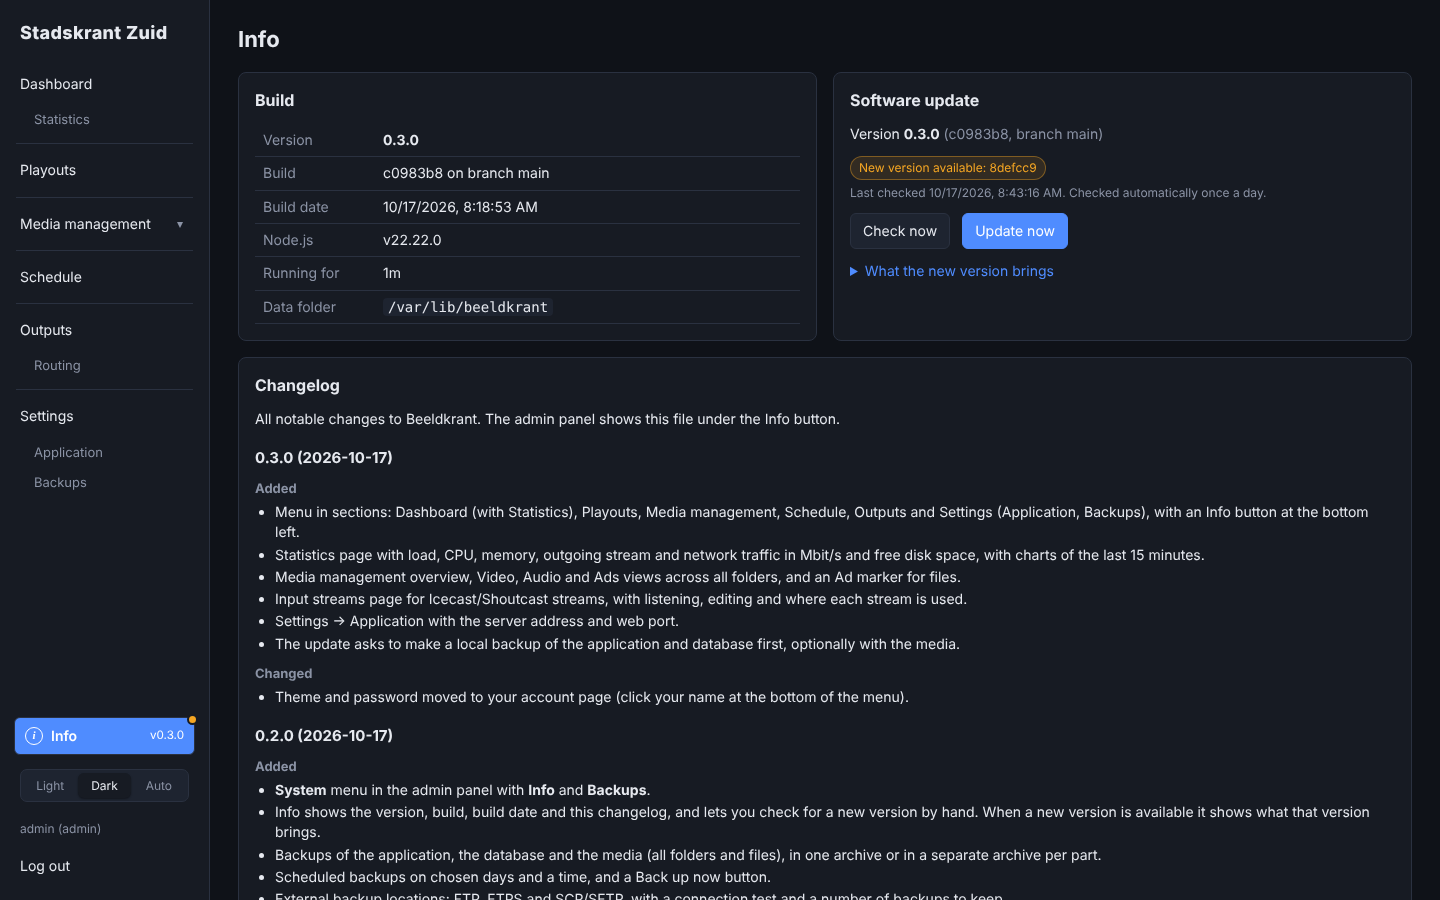
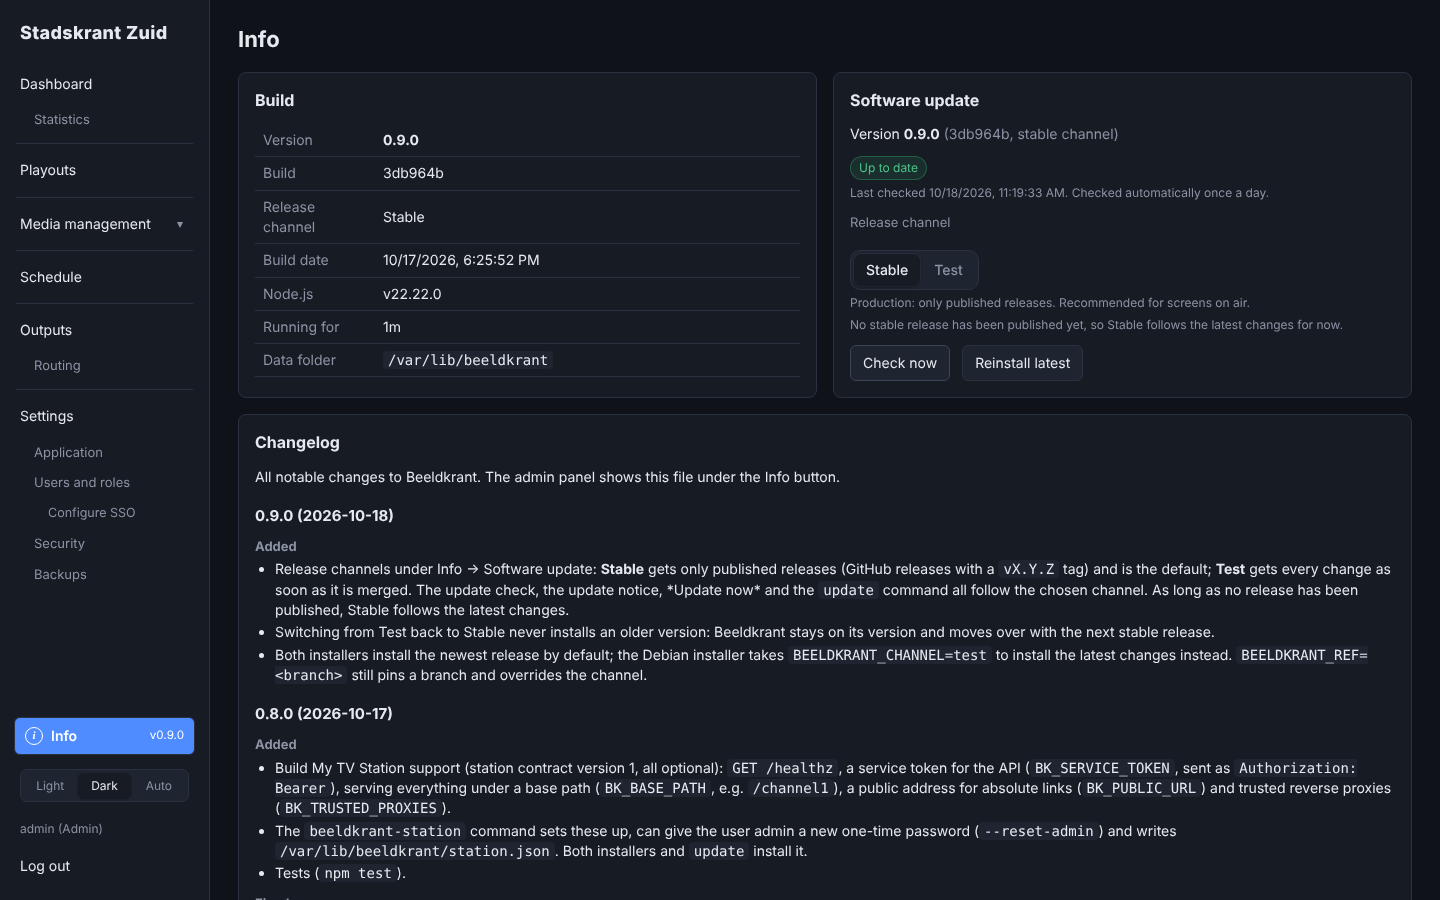
Add Stable and Test release channels
- Stable follows the newest vX.Y.Z GitHub release, Test follows main
- Channel picker under Info > Software update; stored in DATA_DIR/update-channel
- update.sh and the update check follow the channel; never downgrade to an older stable
- Installers install the newest release by default (BEELDKRANT_CHANNEL=test for main)
- README, screenshots and changelog for 0.9.0

Claude-Session: https://claude.ai/code/session_015MfXwti1tNEngGizU1WqZ7

diff --git a/server/updater.js b/server/updater.js
@@ -1,5 +1,8 @@
 'use strict';
 // Checks once a day whether a newer version is available and lets an admin start the update.
+// Two release channels: Stable follows the newest GitHub release (a vX.Y.Z tag), Test follows
+// the main branch, so every merged change. BEELDKRANT_REF (in /etc/default/beeldkrant) pins
+// another branch instead and overrides the channel.
 // The update itself runs as root through the beeldkrant-update systemd units (see deploy/):
 // this process only writes the request file that their path unit watches.
 const fs = require('fs');
@@ -8,13 +11,56 @@ const { execFile } = require('child_process');
 const store = require('./store');
 
 const APP_DIR = path.join(__dirname, '..');
-const REF = process.env.BEELDKRANT_REF || 'main';
+const PINNED_REF = process.env.BEELDKRANT_REF || null;
+const TEST_BRANCH = 'main';
+const CHANNELS = ['stable', 'test'];
+// Read by `update` too (it runs as root and cannot read the database), so it is a plain file.
+const CHANNEL_FILE = path.join(store.DATA_DIR, 'update-channel');
 const REQUEST_FILE = path.join(store.DATA_DIR, 'update-request');
 const LOG_FILE = path.join(store.DATA_DIR, 'update.log');
 const PATH_UNIT = '/etc/systemd/system/beeldkrant-update.path';
 const DAY = 24 * 60 * 60 * 1000;
 
-const state = { latest: null, checkedAt: null, error: null, incoming: null };
+const state = { latest: null, latestVersion: null, ref: null, fallback: false, checkedAt: null, error: null, incoming: null };
+
+function channel() {
+  try {
+    const c = fs.readFileSync(CHANNEL_FILE, 'utf8').trim();
+    return CHANNELS.includes(c) ? c : 'stable';
+  } catch { return 'stable'; }
+}
+
+function setChannel(c) {
+  if (!CHANNELS.includes(c)) throw Object.assign(new Error('Unknown release channel'), { status: 400 });
+  if (PINNED_REF) throw Object.assign(new Error(`This installation is pinned to branch ${PINNED_REF} (BEELDKRANT_REF in /etc/default/beeldkrant). Remove that line to use a release channel.`), { status: 409 });
+  fs.writeFileSync(CHANNEL_FILE, `${c}\n`);
+  return check();
+}
+
+// "0.10.2" > "0.9.7"; anything that is not x.y.z counts as 0.0.0.
+function parseVersion(v) {
+  const m = /^v?(\d+)\.(\d+)\.(\d+)$/.exec(String(v || '').trim());
+  return m ? m.slice(1).map(Number) : [0, 0, 0];
+}
+function newer(a, b) {
+  const x = parseVersion(a); const y = parseVersion(b);
+  for (let i = 0; i < 3; i++) if (x[i] !== y[i]) return x[i] > y[i];
+  return false;
+}
+
+// The newest release tag and its commit, from `git ls-remote --tags` output.
+function latestRelease(out) {
+  const tags = {};
+  for (const line of out.split('\n')) {
+    const [sha, ref] = line.trim().split(/\s+/);
+    const m = /^refs\/tags\/(v\d+\.\d+\.\d+)(\^\{\})?$/.exec(ref || '');
+    if (!m) continue;
+    // An annotated tag has its own object; the ^{} line is the commit it points at.
+    if (m[2] || !tags[m[1]]) tags[m[1]] = sha;
+  }
+  const names = Object.keys(tags).sort((a, b) => (newer(a, b) ? -1 : newer(b, a) ? 1 : 0));
+  return names.length ? { tag: names[0], commit: tags[names[0]] } : null;
+}
 
 function run(cmd, args, timeout = 30000) {
   return new Promise((resolve, reject) => {
@@ -32,17 +78,38 @@ async function current() {
   try { return await git('rev-parse', 'HEAD'); } catch { return null; }
 }
 
+// What to update to: { ref, commit, version? }. Stable without any release yet follows main.
+async function target() {
+  if (PINNED_REF) {
+    const out = await git('ls-remote', 'origin', `refs/heads/${PINNED_REF}`);
+    return { ref: PINNED_REF, commit: out.split(/\s+/)[0] || null };
+  }
+  if (channel() === 'stable') {
+    const release = latestRelease(await git('ls-remote', '--tags', 'origin', 'refs/tags/v*'));
+    if (release) return { ref: `refs/tags/${release.tag}`, commit: release.commit, version: release.tag.slice(1) };
+  }
+  const out = await git('ls-remote', 'origin', `refs/heads/${TEST_BRANCH}`);
+  return { ref: TEST_BRANCH, commit: out.split(/\s+/)[0] || null, fallback: channel() === 'stable' };
+}
+
 async function check() {
   try {
-    const out = await git('ls-remote', 'origin', `refs/heads/${REF}`);
-    state.latest = out.split(/\s+/)[0] || null;
-    state.error = state.latest ? null : `Branch ${REF} not found`;
-    state.incoming = state.latest && state.latest !== (await current()) ? await incomingChangelog() : null;
+    const t = await target();
+    Object.assign(state, { latest: t.commit, latestVersion: t.version || null, ref: t.ref, fallback: !!t.fallback });
+    state.error = t.commit ? null : `Branch ${t.ref} not found`;
+    state.incoming = isAvailable(await current()) ? await incomingChangelog(t.ref) : null;
   } catch (err) {
     state.error = 'Could not reach the repository';
   }
   state.checkedAt = new Date().toISOString();
   return status();
+}
+
+// A release only counts when it is newer than what runs now: switching from Test to Stable
+// never installs an older version; you move over with the next stable release.
+function isAvailable(commit) {
+  if (!commit || !state.latest || commit === state.latest) return false;
+  return state.latestVersion ? newer(state.latestVersion, version()) : true;
 }
 
 async function commitDate() {
@@ -55,9 +122,9 @@ function changelog() {
 
 // The changelog of the newer version, so the panel can show what an update brings.
 // Fetching only touches FETCH_HEAD; `update` fetches the same way.
-async function incomingChangelog() {
+async function incomingChangelog(ref) {
   try {
-    await run('git', ['-c', `safe.directory=${APP_DIR}`, '-C', APP_DIR, 'fetch', '--quiet', '--depth', '1', 'origin', REF], 120000);
+    await run('git', ['-c', `safe.directory=${APP_DIR}`, '-C', APP_DIR, 'fetch', '--quiet', '--depth', '1', 'origin', ref], 120000);
     return await git('show', 'FETCH_HEAD:CHANGELOG.md');
   } catch { return null; }
 }
@@ -69,9 +136,16 @@ async function status() {
   return {
     version: version(),
     commit,
-    branch: REF,
+    channel: channel(),
+    pinned: PINNED_REF,
+    branch: PINNED_REF || (state.ref && !state.ref.startsWith('refs/tags/') ? state.ref : null),
     latest: state.latest,
-    available: !!(commit && state.latest && commit !== state.latest),
+    latestVersion: state.latestVersion,
+    // Stable has no release yet, so it follows main for now.
+    stableFallback: state.fallback,
+    // Running a test version that is newer than the latest stable release.
+    aheadOfStable: !!(state.latestVersion && newer(version(), state.latestVersion)),
+    available: isAvailable(commit),
     checkedAt: state.checkedAt,
     error: state.error,
     incoming: state.incoming,
@@ -93,4 +167,4 @@ function start() {
   setInterval(check, DAY);
 }
 
-module.exports = { check, status, requestUpdate, start, commitDate, changelog };
+module.exports = { check, status, requestUpdate, start, commitDate, changelog, channel, setChannel, latestRelease, newer };

diff --git a/public/admin/app.js b/public/admin/app.js
@@ -262,7 +262,8 @@
       const u = await GET('/api/system/update');
       if (!u.available) return;
       main.prepend(h('div', { class: 'update-banner' },
-        h('span', null, h('b', null, 'A new version of Beeldkrant is available.'), ` You run ${u.commit.slice(0, 7)}, the latest is ${u.latest.slice(0, 7)}.`),
+        h('span', null, h('b', null, u.latestVersion ? `Beeldkrant ${u.latestVersion} is available.` : 'A new version of Beeldkrant is available.'),
+          u.latestVersion ? ` You run ${u.version}.` : ` You run ${u.commit.slice(0, 7)}, the latest is ${u.latest.slice(0, 7)}.`),
         u.canUpdate ? h('button', { class: 'primary small', onclick: () => runUpdate(u) }, 'Update now') : h('span', { class: 'muted' }, 'Run update in the container shell.')));
     } catch { /* not important enough to show an error */ }
   }
@@ -318,15 +319,38 @@
     }
   }
 
+  const CHANNEL_INFO = {
+    stable: ['Stable', 'Production: only published releases. Recommended for screens on air.'],
+    test: ['Test', 'Every change as soon as it is merged, before it becomes a release. For trying out new features.'],
+  };
+  const versionLabel = (u) => u.latestVersion ? `version ${u.latestVersion}` : (u.latest || '').slice(0, 7);
+
   async function updateCard() {
     const box = h('div', { class: 'card stack' });
+    const setChannel = async (c, u) => {
+      if (c === u.channel) return;
+      try {
+        const next = await PUT('/api/system/update/channel', { channel: c });
+        toast(`Release channel: ${CHANNEL_INFO[c][0]}`, 'ok');
+        draw(next);
+      } catch (err) { fail(err); }
+    };
+    const channelPicker = (u) => h('div', { class: 'stack release-channel' },
+      h('div', { class: 'label' }, 'Release channel'),
+      u.pinned
+        ? h('div', { class: 'hint' }, `Pinned to branch ${u.pinned} (BEELDKRANT_REF in /etc/default/beeldkrant). Remove that line to choose a release channel.`)
+        : [h('div', { class: 'seg' }, ...Object.entries(CHANNEL_INFO).map(([c, [label]]) => h('button', { class: u.channel === c ? 'active' : '', onclick: () => setChannel(c, u) }, label))),
+          h('div', { class: 'hint' }, CHANNEL_INFO[u.channel][1]),
+          u.channel === 'stable' && u.stableFallback ? h('div', { class: 'hint' }, 'No stable release has been published yet, so Stable follows the latest changes for now.') : null,
+          u.channel === 'stable' && u.aheadOfStable ? h('div', { class: 'hint' }, `You run a test version (${u.version}) that is newer than the latest stable release (${u.latestVersion}). Beeldkrant stays on this version and moves to Stable with the next stable release.`) : null]);
     const draw = (u) => put(box,
       h('h2', null, 'Software update'),
-      h('div', null, 'Version ', h('b', null, u.version || '?'), u.commit ? h('span', { class: 'muted' }, ` (${u.commit.slice(0, 7)}, branch ${u.branch})`) : null),
+      h('div', null, 'Version ', h('b', null, u.version || '?'), u.commit ? h('span', { class: 'muted' }, ` (${u.commit.slice(0, 7)}, ${u.pinned ? `branch ${u.pinned}` : `${CHANNEL_INFO[u.channel][0].toLowerCase()} channel`})`) : null),
       u.error ? h('div', { class: 'badge err' }, u.error)
-        : u.available ? h('div', { class: 'badge warn' }, `New version available: ${u.latest.slice(0, 7)}`)
+        : u.available ? h('div', { class: 'badge warn' }, `New version available: ${versionLabel(u)}`)
           : u.checkedAt ? h('div', { class: 'badge ok' }, 'Up to date') : null,
       h('div', { class: 'hint' }, u.checkedAt ? `Last checked ${new Date(u.checkedAt).toLocaleString()}. Checked automatically once a day.` : 'Checked automatically once a day.'),
+      channelPicker(u),
       h('div', { class: 'row' },
         h('button', { onclick: async () => { try { draw(await POST('/api/system/update/check')); } catch (err) { fail(err); } } }, 'Check now'),
         u.canUpdate ? h('button', { class: u.available ? 'primary' : '', onclick: () => runUpdate(u) }, u.available ? 'Update now' : 'Reinstall latest') : null),
@@ -2672,7 +2696,8 @@
         h('div', { class: 'card stack' }, h('h2', null, 'Build'),
           h('table', { class: 'kv' },
             row('Version', h('b', null, info.version || '?')),
-            row('Build', info.commit ? `${info.commit.slice(0, 7)} on branch ${info.branch}` : 'Not a git checkout'),
+            row('Build', info.commit ? `${info.commit.slice(0, 7)}${info.pinned ? ` on branch ${info.pinned}` : ''}` : 'Not a git checkout'),
+            row('Release channel', info.pinned ? `Pinned to branch ${info.pinned}` : CHANNEL_INFO[info.channel][0]),
             row('Build date', info.builtAt ? new Date(info.builtAt).toLocaleString() : '—'),
             row('Node.js', info.node),
             row('Running for', fmtDuration(info.uptime)),

diff --git a/server/index.js b/server/index.js
@@ -858,6 +858,8 @@ app.post('/api/stream/restart', wrap(async (req, res) => { await stream.restart(
 // Software updates (admins only)
 app.get('/api/system/update', wrap(async (req, res) => res.json({ ...(await updater.status()), prepare })));
 app.post('/api/system/update/check', auth.requireRole('admin'), wrap(async (req, res) => res.json(await updater.check())));
+// Release channel: stable (GitHub releases) or test (every change on main).
+app.put('/api/system/update/channel', auth.requireRole('admin'), wrap(async (req, res) => res.json({ ...(await updater.setChannel((req.body || {}).channel)), prepare })));
 // An update can first make a local backup of the application and database (and optionally the
 // media); `prepare` reports on that step until the update itself is requested.
 let prepare = null;

diff --git a/README.md b/README.md
@@ -38,18 +38,30 @@ Open the shell of the container and run:
 update
 ```
 
-It fetches the latest version, installs it and restarts Beeldkrant, or tells you it is already up to date.
+It fetches the latest version of your release channel, installs it and restarts Beeldkrant, or tells you it is already up to date.
 
-The admin panel checks for a new version once a day. Admins then see a notice with an **Update now** button, which runs the same update; The **Info** button at the bottom left of the menu shows the version, build and changelog (and what a new version brings), with *Check now* and the update button. Before updating, the panel offers to make a local backup of the application and database, optionally with the media; the update only starts when that backup succeeded. The panel starts the update through the `beeldkrant-update.path` and `beeldkrant-update.service` systemd units, so the web server itself never needs root. Your playouts, media and settings in `/var/lib/beeldkrant` are kept. `update --force` reinstalls the current version. To follow another branch, put `BEELDKRANT_REF=<branch>` in `/etc/default/beeldkrant`.
+#### Release channels
+
+Under *Info → Software update* an admin picks the release channel:
+
+- **Stable** (default, production): only published releases. A release is a [GitHub release](https://github.com/rhisijmuiden/TV-Channel-Generator/releases) with a tag like `v0.9.0`; publish one to put the current `main` on Stable. As long as no release exists, Stable follows the latest changes.
+- **Test**: every change as soon as it is merged into `main`, before it becomes a release. Use it on a test machine to try new features.
+
+The update check, the notice, *Update now* and the `update` command all follow the chosen channel. Going from Test back to Stable never installs an older version: Beeldkrant stays where it is and moves to Stable with the next release that is newer. The choice is kept in `/var/lib/beeldkrant/update-channel`.
+
+<img src="docs/screenshots/release-channel.png" alt="Software update card with the release channel set to Test" width="49%">
+
+
+The admin panel checks for a new version once a day. Admins then see a notice with an **Update now** button, which runs the same update; The **Info** button at the bottom left of the menu shows the version, build and changelog (and what a new version brings), with *Check now* and the update button. Before updating, the panel offers to make a local backup of the application and database, optionally with the media; the update only starts when that backup succeeded. The panel starts the update through the `beeldkrant-update.path` and `beeldkrant-update.service` systemd units, so the web server itself never needs root. Your playouts, media and settings in `/var/lib/beeldkrant` are kept. `update --force` reinstalls the current version. To follow another branch instead of a channel, put `BEELDKRANT_REF=<branch>` in `/etc/default/beeldkrant`.
 
 Before an update the panel asks whether to make a local backup first:
 
 <p>
-  <img src="docs/screenshots/info.png" alt="Info page with the version, build and changelog" width="49%">
+  <img src="docs/screenshots/info.png" alt="Info page with the version, build, release channel and changelog" width="49%">
   <img src="docs/screenshots/update-dialog.png" alt="Update dialog with the backup options" width="49%">
 </p>
 
-Useful overrides: `mode=default` skips the wizard, `var_gpu=no` turns GPU passthrough off, `BEELDKRANT_REF=<branch>` installs another branch.
+Useful overrides: `mode=default` skips the wizard, `var_gpu=no` turns GPU passthrough off, `BEELDKRANT_REF=<branch>` installs another branch. The container starts on the newest release (Stable); switch to Test in the panel.
 
 ## How it works
 
@@ -352,7 +364,7 @@ bash -c "$(curl -fsSL https://raw.githubusercontent.com/rhisijmuiden/TV-Channel-
 
 Without curl, use `wget -qO-` instead of `curl -fsSL`. The installer asks nothing: it installs the packages (Chromium, ffmpeg, Xvfb, PulseAudio, fonts and Debian's Node.js), Beeldkrant in `/opt/beeldkrant` with its data in `/var/lib/beeldkrant`, the systemd service and the `update` command, and prints the admin address and the one-time password at the end. Running it again on an installed machine runs `update`.
 
-Settings: `PORT=<port>` changes the panel port, `BEELDKRANT_REF=<branch>` installs another branch, and `GPU=intel`, `GPU=amd` or `GPU=none` chooses the VAAPI drivers for hardware encoding (by default the installer looks for a GPU passed through to the machine). NVIDIA is only supported in the LXC container for now.
+Settings: `PORT=<port>` changes the panel port, `BEELDKRANT_CHANNEL=test` installs the latest changes instead of the newest release (see [Release channels](#release-channels)), `BEELDKRANT_REF=<branch>` installs another branch, and `GPU=intel`, `GPU=amd` or `GPU=none` chooses the VAAPI drivers for hardware encoding (by default the installer looks for a GPU passed through to the machine). NVIDIA is only supported in the LXC container for now.
 
 By hand, without the installer:
 

diff --git a/CHANGELOG.md b/CHANGELOG.md
@@ -2,6 +2,13 @@
 
 All notable changes to Beeldkrant. The admin panel shows this file under the Info button.
 
+## 0.9.0 (2026-10-18)
+
+### Added
+- Release channels under Info → Software update: **Stable** gets only published releases (GitHub releases with a `vX.Y.Z` tag) and is the default; **Test** gets every change as soon as it is merged. The update check, the update notice, *Update now* and the `update` command all follow the chosen channel. As long as no release has been published, Stable follows the latest changes.
+- Switching from Test back to Stable never installs an older version: Beeldkrant stays on its version and moves over with the next stable release.
+- Both installers install the newest release by default; the Debian installer takes `BEELDKRANT_CHANNEL=test` to install the latest changes instead. `BEELDKRANT_REF=<branch>` still pins a branch and overrides the channel.
+
 ## 0.8.0 (2026-10-17)
 
 ### Added
